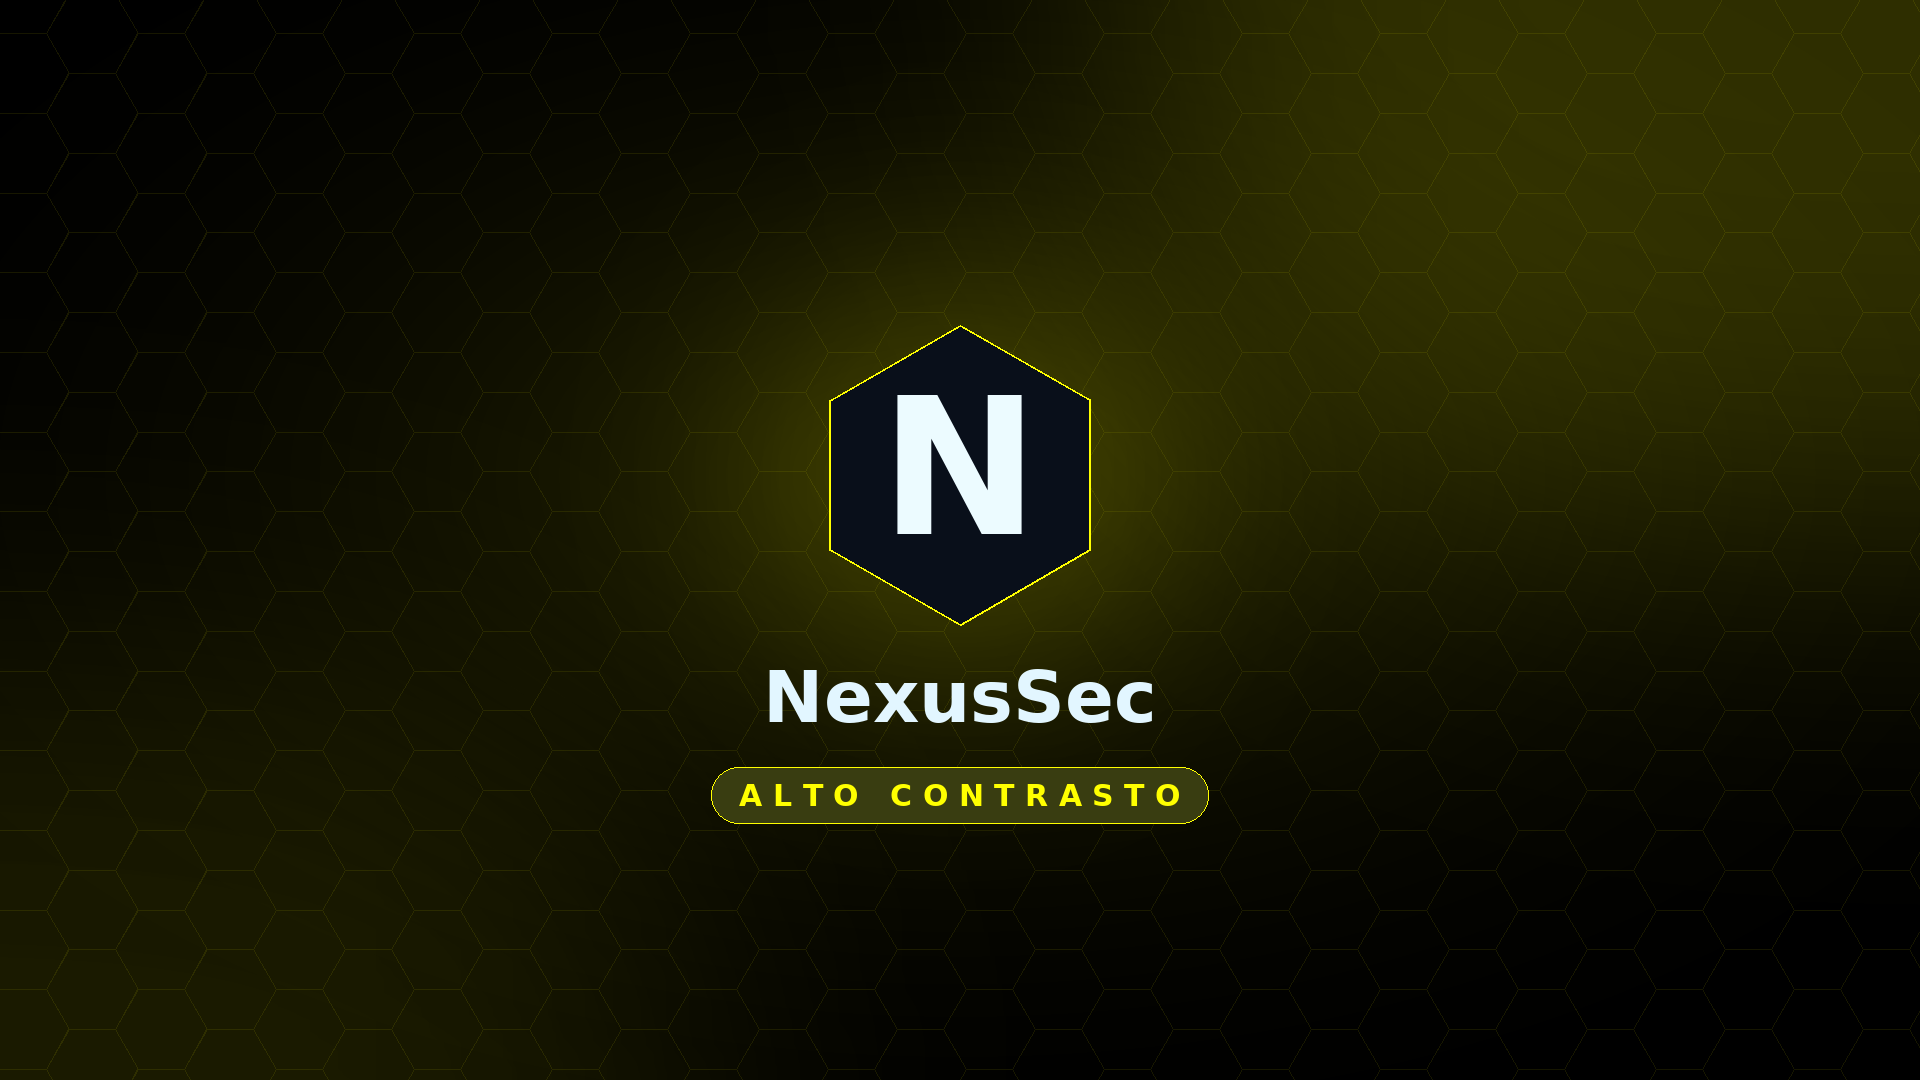
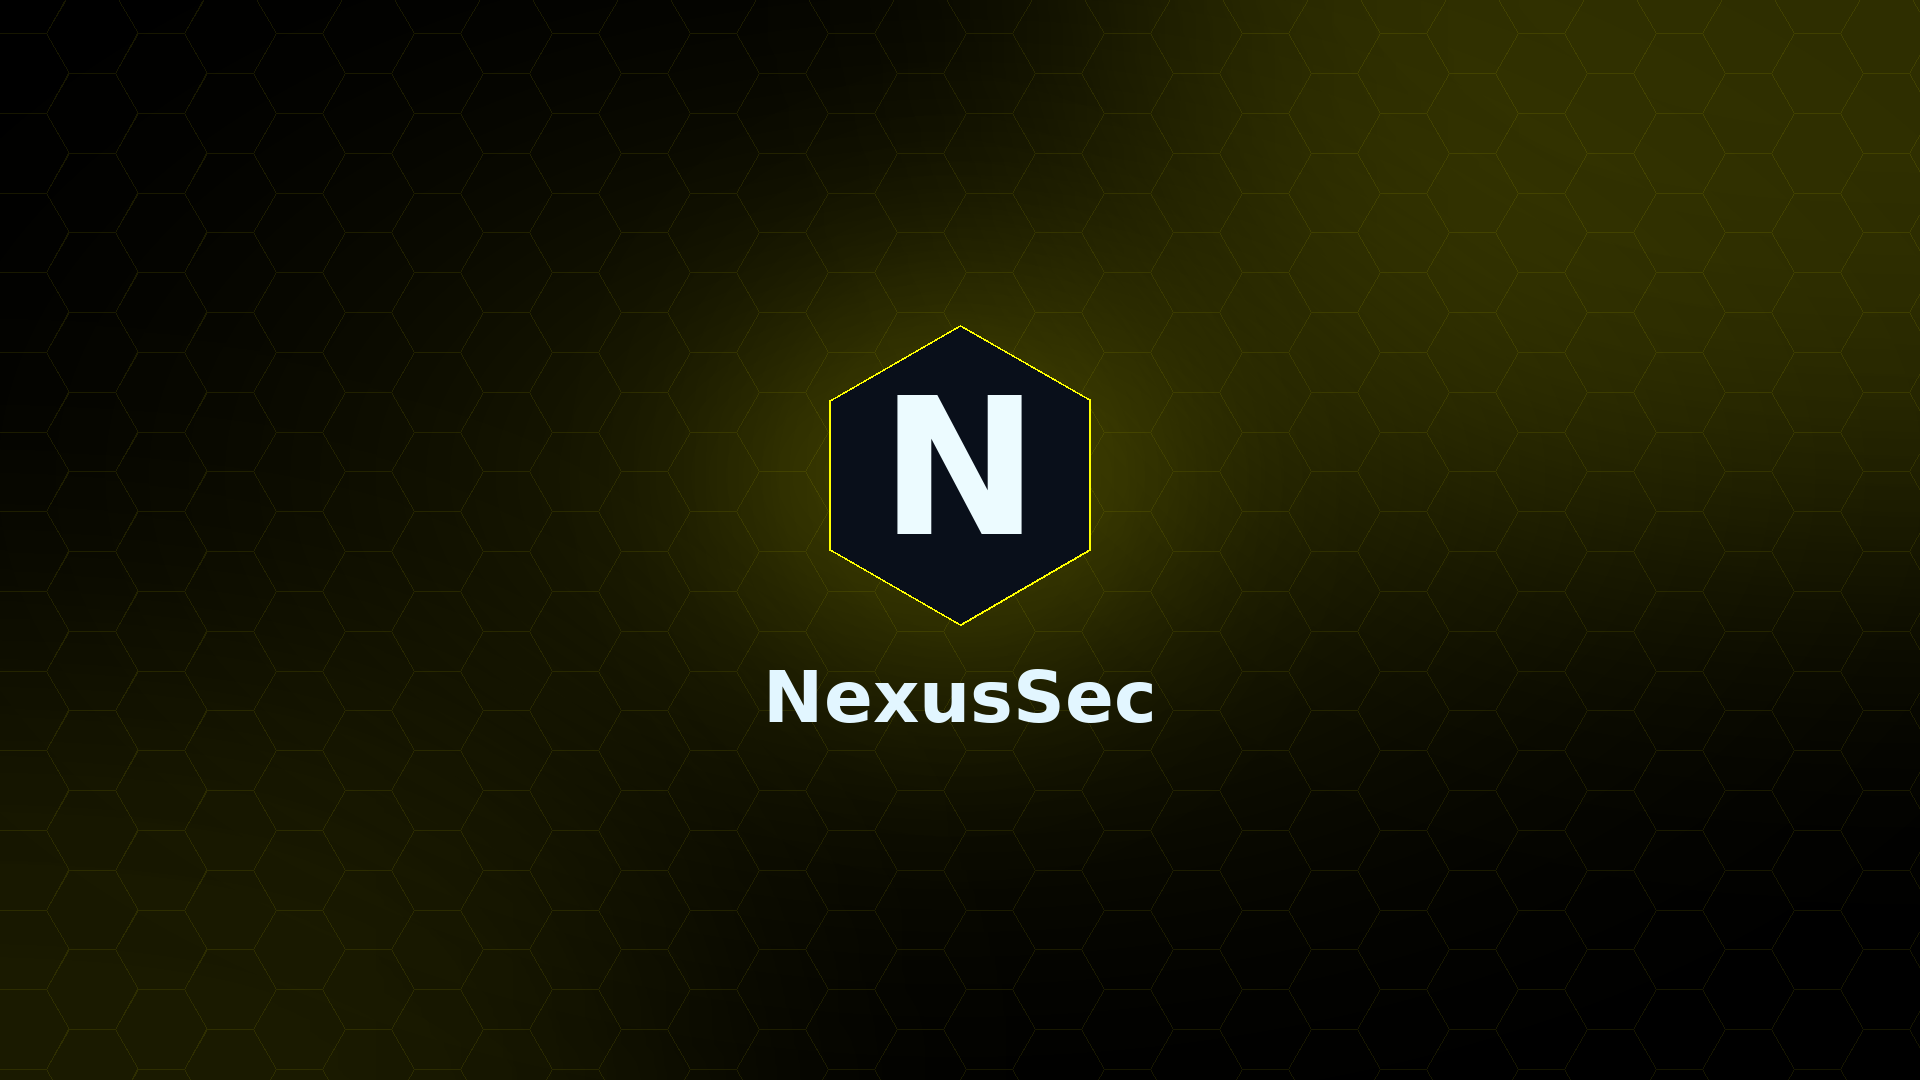
Sfondi skin: via le scritte-colore, honeycomb piu' visibile sui chiari, nuovo bianco-celeste
- make-wallpaper.py: make() disegna la pillola/tag SOLO se e' dato un label. I
  profili passano il nome (badge invariato); gli skin passano '' -> niente
  scritta del colore (es. 'GRIGIO SCURO'). Profili NON toccati.
- make-panel-wallpapers.py: skin generati senza badge; make_white senza scritta
  'BIANCO' e con honeycomb piu' marcato (sul bianco un alpha basso spariva);
  nuovo make_white_cyan -> skin-celeste (bianco con accenti celesti del pannello,
  honeycomb celeste visibile, testo celeste-blu leggibile).
- rigenerati gli 11 skin-*.png (incluso skin-celeste, che compare da solo nel
  selettore sfondi del Centro di Controllo).

Changed region(s): [[0.375, 0.7028, 0.625, 0.7639]]

diff --git a/build/make-panel-wallpapers.py b/build/make-panel-wallpapers.py
@@ -58,8 +58,9 @@ def make_white(mw):
         for x in range(W):
             px[x, y] = row
     img = img.convert("RGBA")
-    # honeycomb tenue (grigio)
-    img = Image.alpha_composite(img, mw.honeycomb((120, 130, 140), alpha=16))
+    # honeycomb piu' marcato che sugli scuri: sul bianco un alpha basso sparisce,
+    # quindi lo rendiamo visibile (grigio piu' scuro + alpha maggiore).
+    img = Image.alpha_composite(img, mw.honeycomb((95, 108, 122), alpha=36))
     d = ImageDraw.Draw(img, "RGBA")
     cx, cy = W // 2, int(H * 0.44)
     R = 150
@@ -72,14 +73,44 @@ def make_white(mw):
     fW = mw.font(72)
     wm = "NexusSec"; ww = d.textlength(wm, font=fW)
     d.text((cx - ww / 2, cy + 180), wm, font=fW, fill=ink + (255,))
-    ft = mw.font(30)
-    spaced = " ".join("BIANCO")
-    lw = d.textlength(spaced, font=ft)
-    px0, py0 = cx - lw / 2 - 28, cy + 292
-    d.rounded_rectangle([px0, py0, cx + lw / 2 + 28, py0 + 56], radius=28,
-                        fill=(240, 242, 246), outline=ink + (255,))
-    d.text((cx - lw / 2, py0 + 11), spaced, font=ft, fill=ink + (255,))
+    # (nessuna scritta del colore: solo emblema + wordmark)
     out = os.path.join(OUT, "skin-white.png")
+    img.convert("RGB").save(out, "PNG")
+    print("generato", out)
+
+
+def make_white_cyan(mw):
+    """Sfondo CHIARO con accenti CELESTI del pannello (#00e5ff): fondo bianco ->
+    azzurrino, honeycomb celeste ben visibile, emblema esagonale bianco con
+    bordo/wordmark nei toni celeste-blu del pannello (leggibili su chiaro).
+    Nessuna scritta del colore."""
+    from PIL import Image, ImageDraw
+    W, H = mw.W, mw.H
+    cyan = (0, 229, 255)         # accent pannello
+    ink = (0, 106, 138)          # celeste-blu scuro: leggibile su bianco
+    img = Image.new("RGB", (W, H), (255, 255, 255))
+    top, bot = (255, 255, 255), (223, 242, 248)   # bianco -> celeste chiarissimo
+    px = img.load()
+    for y in range(H):
+        t = y / (H - 1)
+        row = tuple(int(top[i] + (bot[i] - top[i]) * t) for i in range(3))
+        for x in range(W):
+            px[x, y] = row
+    img = img.convert("RGBA")
+    # honeycomb celeste ben visibile (sul chiaro serve piu' presenza)
+    img = Image.alpha_composite(img, mw.honeycomb(cyan, alpha=40))
+    d = ImageDraw.Draw(img, "RGBA")
+    cx, cy = W // 2, int(H * 0.44)
+    pts = mw._hexpts(cx, cy, 150)
+    d.polygon(pts, fill=(255, 255, 255, 255), outline=ink + (255,))
+    d.line(pts + [pts[0]], fill=ink + (255,), width=3)
+    fN = mw.font(190)
+    tw = d.textlength("N", font=fN)
+    d.text((cx - tw / 2, cy - 118), "N", font=fN, fill=ink + (255,))
+    fW = mw.font(72)
+    wm = "NexusSec"; ww = d.textlength(wm, font=fW)
+    d.text((cx - ww / 2, cy + 180), wm, font=fW, fill=ink + (255,))
+    out = os.path.join(OUT, "skin-celeste.png")
     img.convert("RGB").save(out, "PNG")
     print("generato", out)
 
@@ -94,9 +125,11 @@ def main():
     mw.DEST = OUT                                 # reindirizza l'output
     W, H = mw.W, mw.H
     for sid, (accent, deep, label) in SKINS.items():
-        mw.make("skin-" + sid, accent, deep, label, (W * 0.5, H * 0.44))
+        # label="" -> nessuna scritta del colore sugli sfondi skin (solo emblema)
+        mw.make("skin-" + sid, accent, deep, "", (W * 0.5, H * 0.44))
     make_white(mw)                               # sfondo chiaro dedicato
-    print("[panel-wallpapers] fatto: %d sfondi in %s" % (len(SKINS) + 1, OUT))
+    make_white_cyan(mw)                          # bianco con accenti celesti (pannello)
+    print("[panel-wallpapers] fatto: %d sfondi in %s" % (len(SKINS) + 2, OUT))
     return 0
 
 

diff --git a/build/make-wallpaper.py b/build/make-wallpaper.py
@@ -279,18 +279,20 @@ def make(name, accent_hex, deep_hex, label, focal=(W // 2, H // 2)):
     wm = "NexusSec"
     ww = d.textlength(wm, font=fW)
     d.text((cx - ww / 2, cy + 180), wm, font=fW, fill=(226, 246, 255, 255))
-    # tag del profilo (pillola accento, lettere spaziate)
-    tag = (label or name).upper()
-    ft = font(30)
-    spaced = " ".join(tag)
-    lw = d.textlength(spaced, font=ft)
-    px, py = cx - lw / 2 - 28, cy + 292
-    # fill SOLIDO tinto (l'alpha diretto diventerebbe opaco al convert RGB):
-    # scuro con un 20% di accent -> il testo accento risalta bene.
-    pill = mix((8, 13, 22), accent, 0.20)
-    d.rounded_rectangle([px, py, cx + lw / 2 + 28, py + 56], radius=28,
-                        fill=pill, outline=accent + (255,))
-    d.text((cx - lw / 2, py + 11), spaced, font=ft, fill=accent + (255,))
+    # tag/pillola: SOLO se e' dato un label (i profili passano il nome del
+    # profilo; gli sfondi skin passano "" -> niente scritta del colore).
+    if label:
+        tag = label.upper()
+        ft = font(30)
+        spaced = " ".join(tag)
+        lw = d.textlength(spaced, font=ft)
+        px, py = cx - lw / 2 - 28, cy + 292
+        # fill SOLIDO tinto (l'alpha diretto diventerebbe opaco al convert RGB):
+        # scuro con un 20% di accent -> il testo accento risalta bene.
+        pill = mix((8, 13, 22), accent, 0.20)
+        d.rounded_rectangle([px, py, cx + lw / 2 + 28, py + 56], radius=28,
+                            fill=pill, outline=accent + (255,))
+        d.text((cx - lw / 2, py + 11), spaced, font=ft, fill=accent + (255,))
 
     out = os.path.join(DEST, name_to_file(name))
     img.convert("RGB").save(out, "PNG")
